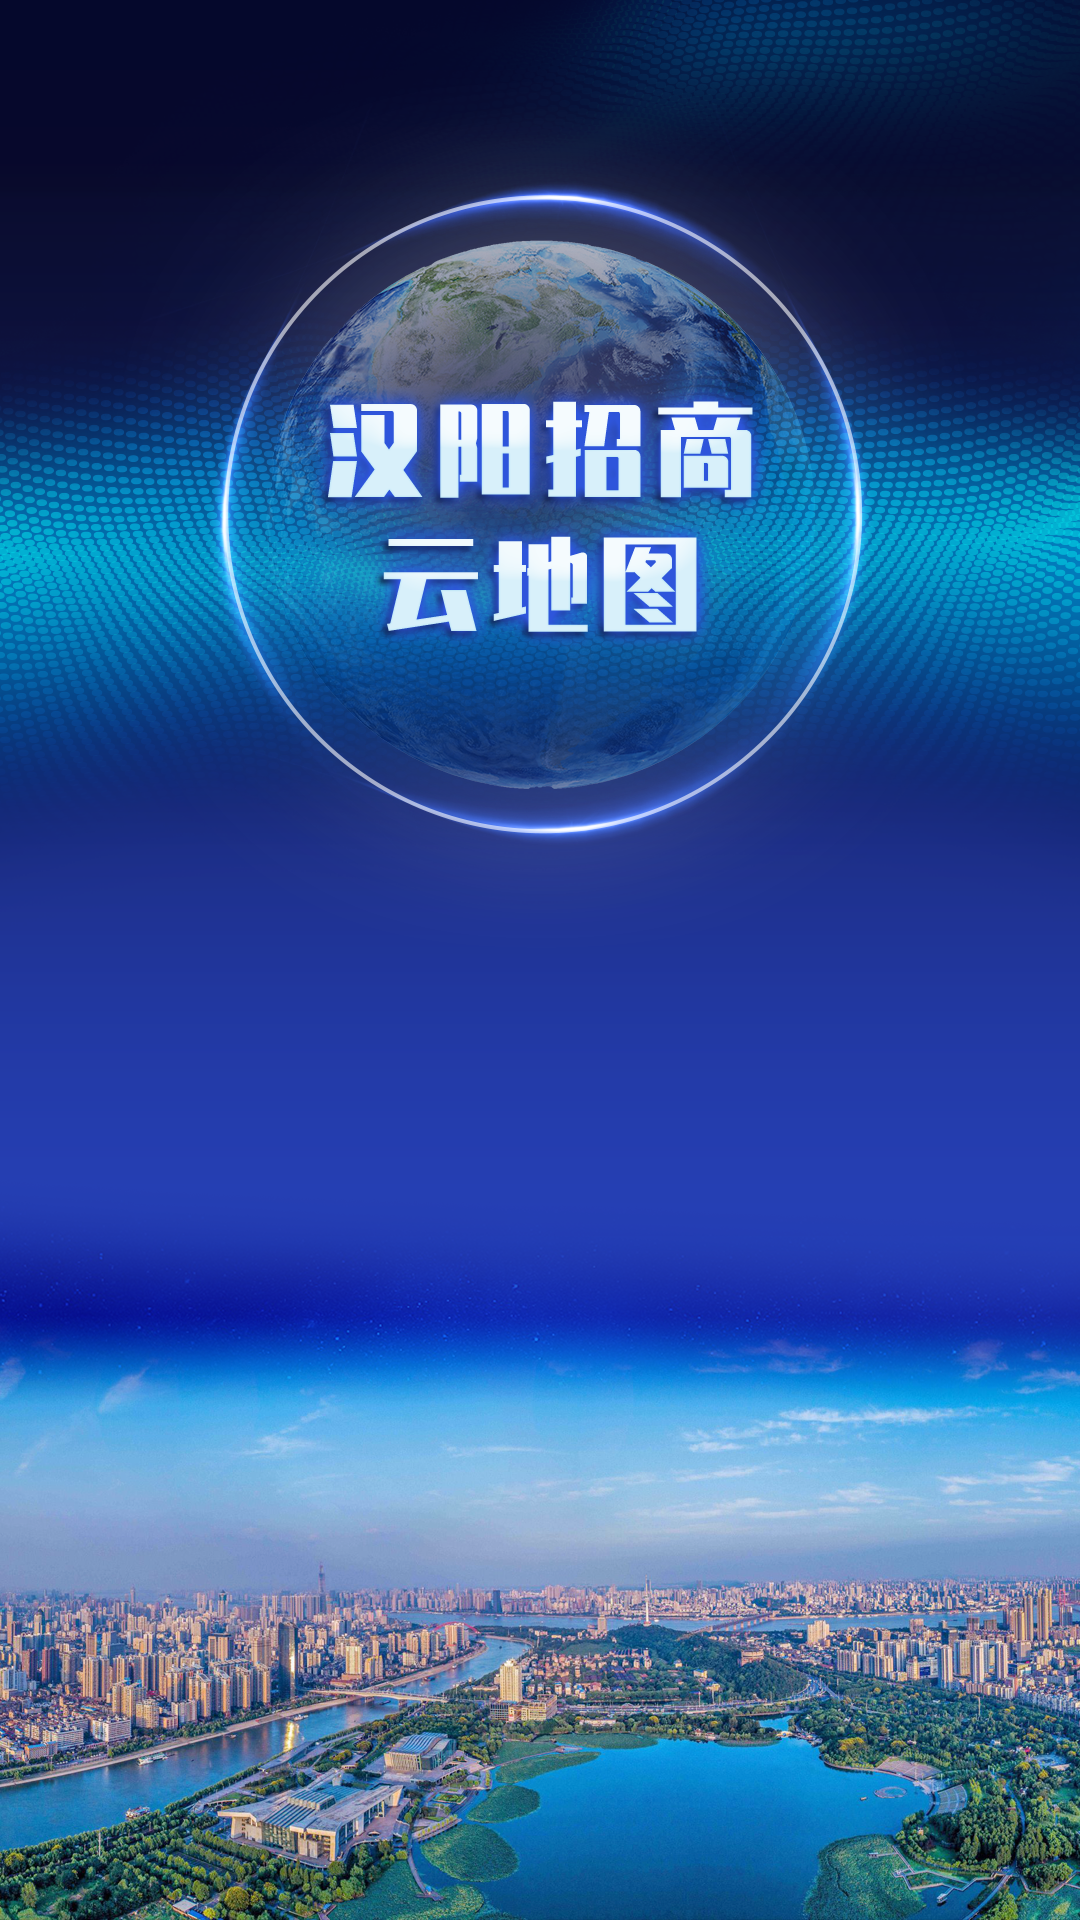
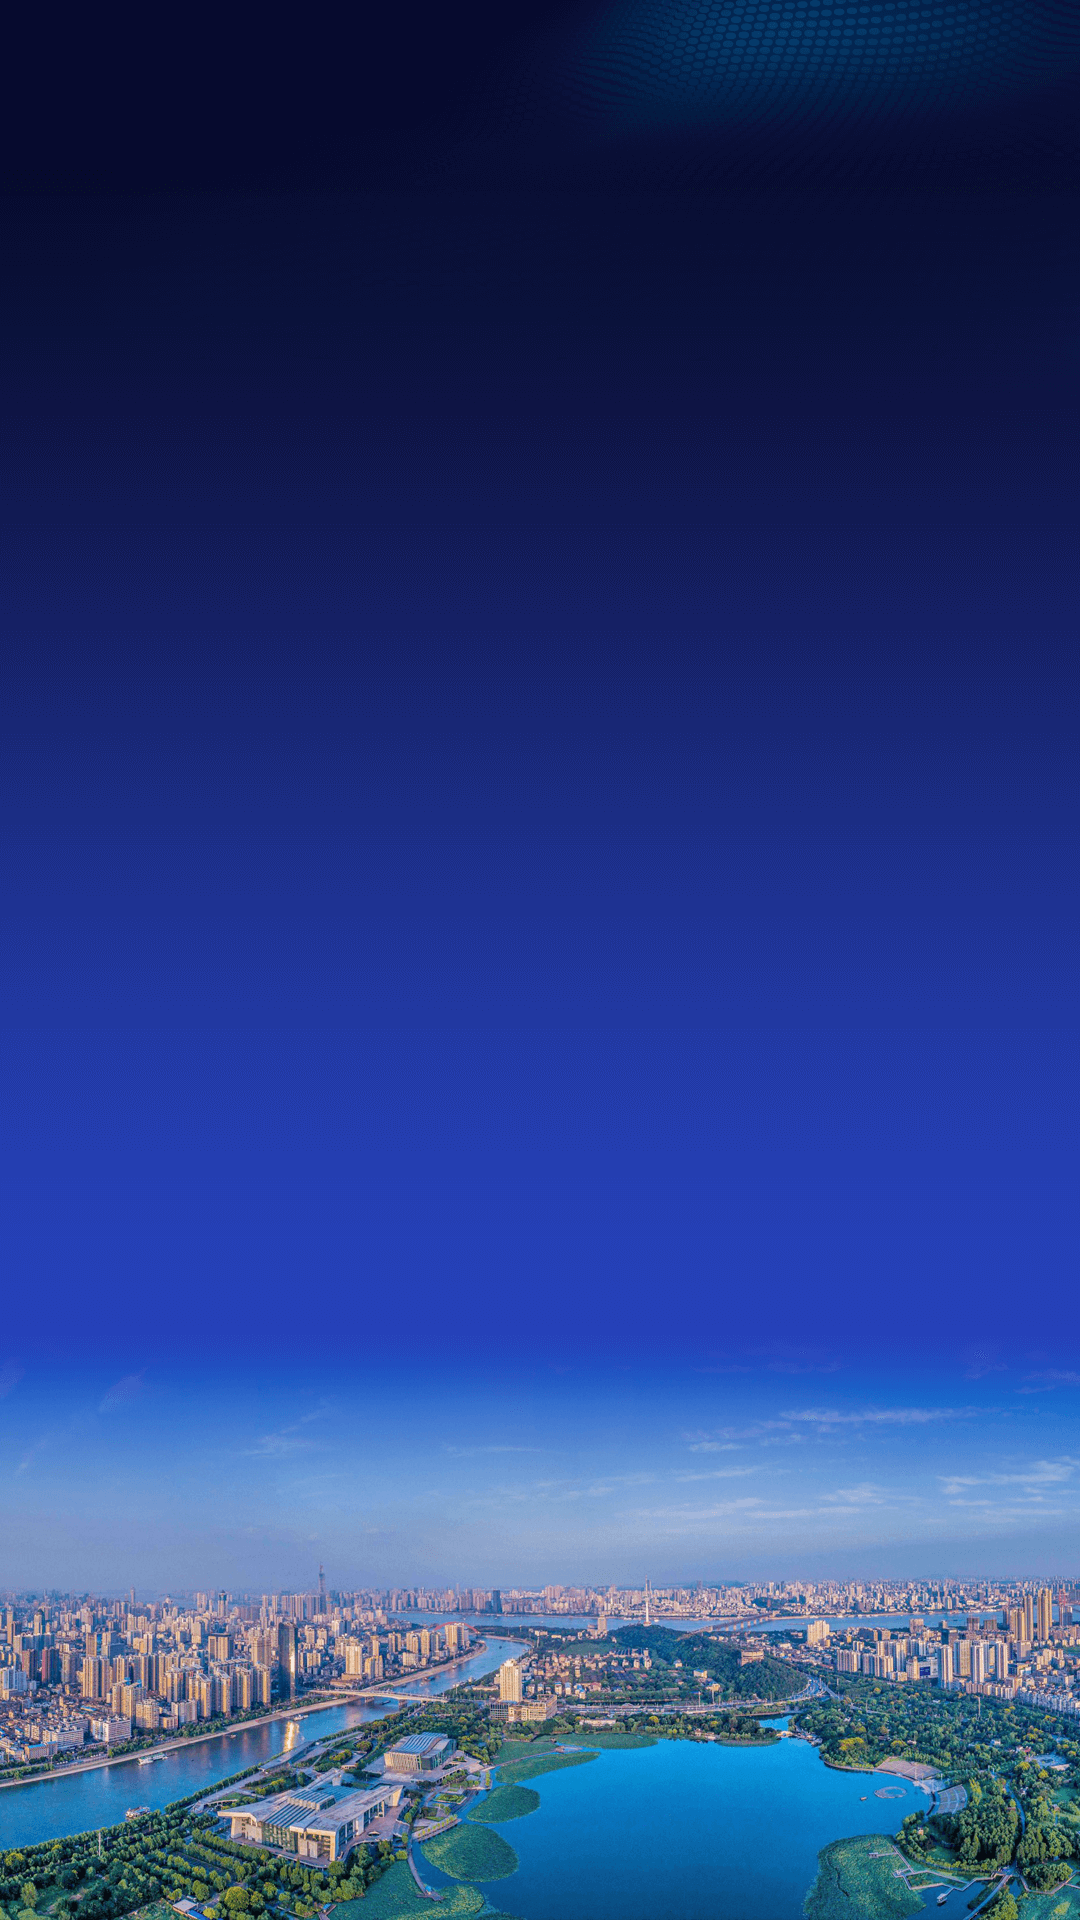
SY refresh

diff --git a/src/views/SY.vue b/src/views/SY.vue
@@ -1,8 +1,8 @@
 <template>
   <div id="SY" class="layout">
-    <!-- <div class="logo">
-      <img id="logo" src="./../assets/LOGO2.gif" width="50%" />
-    </div> -->
+    <div class="logo">
+      <img id="logo" src="./../assets/logo.png" width="40%" />
+    </div>
 
     <div id="buildings">
       <img id="building" src="./../assets/土地信息.png" width="30%" @click="RouteDT" />
@@ -107,25 +107,25 @@ body {
 .layout .logo {
   /*position: absolute;*/
   top: 20%;
-  border-radius: 50% 50%;
+  /* border-radius: 50% 50%; */
 }
 
-/* #logo {
-  width: 50%;
+#logo {
+  width: 100%;
   height: auto;
-  max-width: 80%;
-  max-height: 80%;
-  border-radius: 50% 50%;
+  max-width: 100%;
+  max-height: 100%;
+  /* border-radius: 50% 50%; */
   position: absolute !important;
   left: 50%;
-  top: 20%;
+  top: 25%;
   transform: translateY(-50%, -50%);
   -webkit-transform: translate(-50%, -50%);
   -moz-transform: translate(-50%, -50%);
   -ms-transform: translate(-50%, -50%);
   -o-transform: translate(-50%, -50%);
   display: block;
-} */
+}
 
 .layout .select {
   position: absolute;
